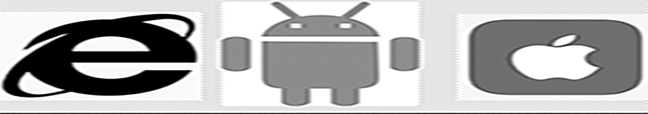
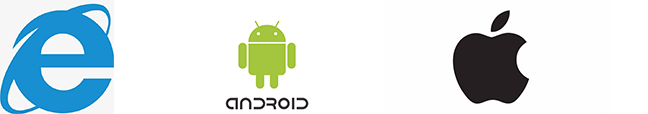
修改雪碧图
3

diff --git a/07/css/style.css b/07/css/style.css
@@ -183,7 +183,7 @@ body{
 }
 .download-Android{
     background-image: url(../images/001.PNG);
-    background-position: -216px 0 ;
+    background-position: -186px 0 ;
     width: 216px;
     height: 114px;
 }
